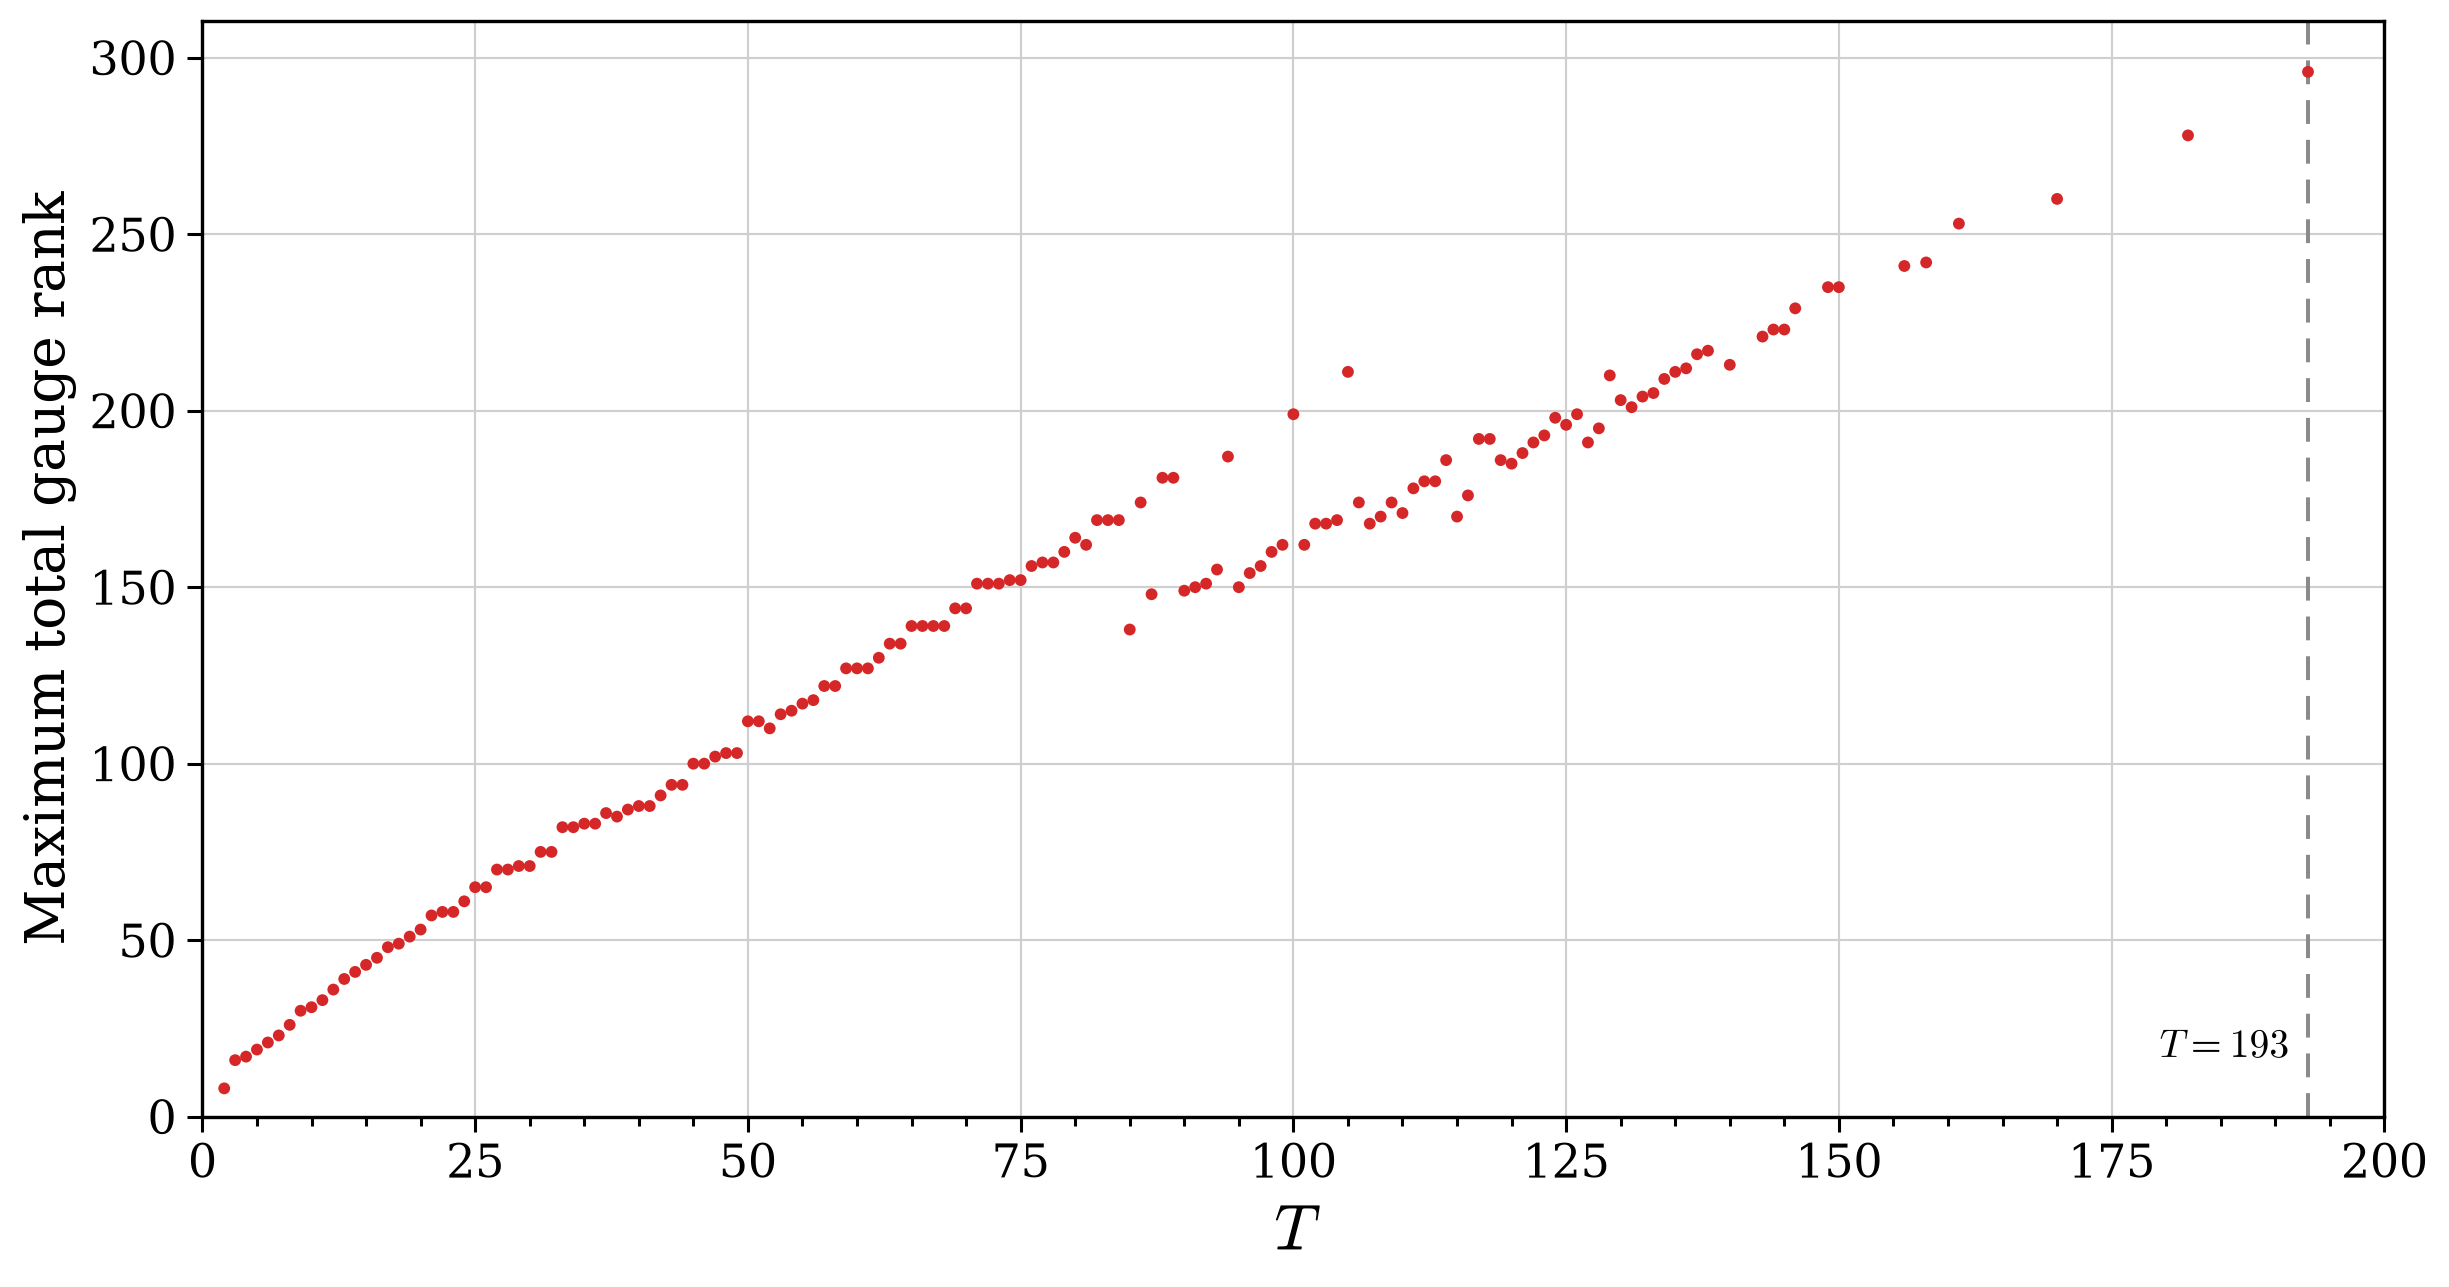
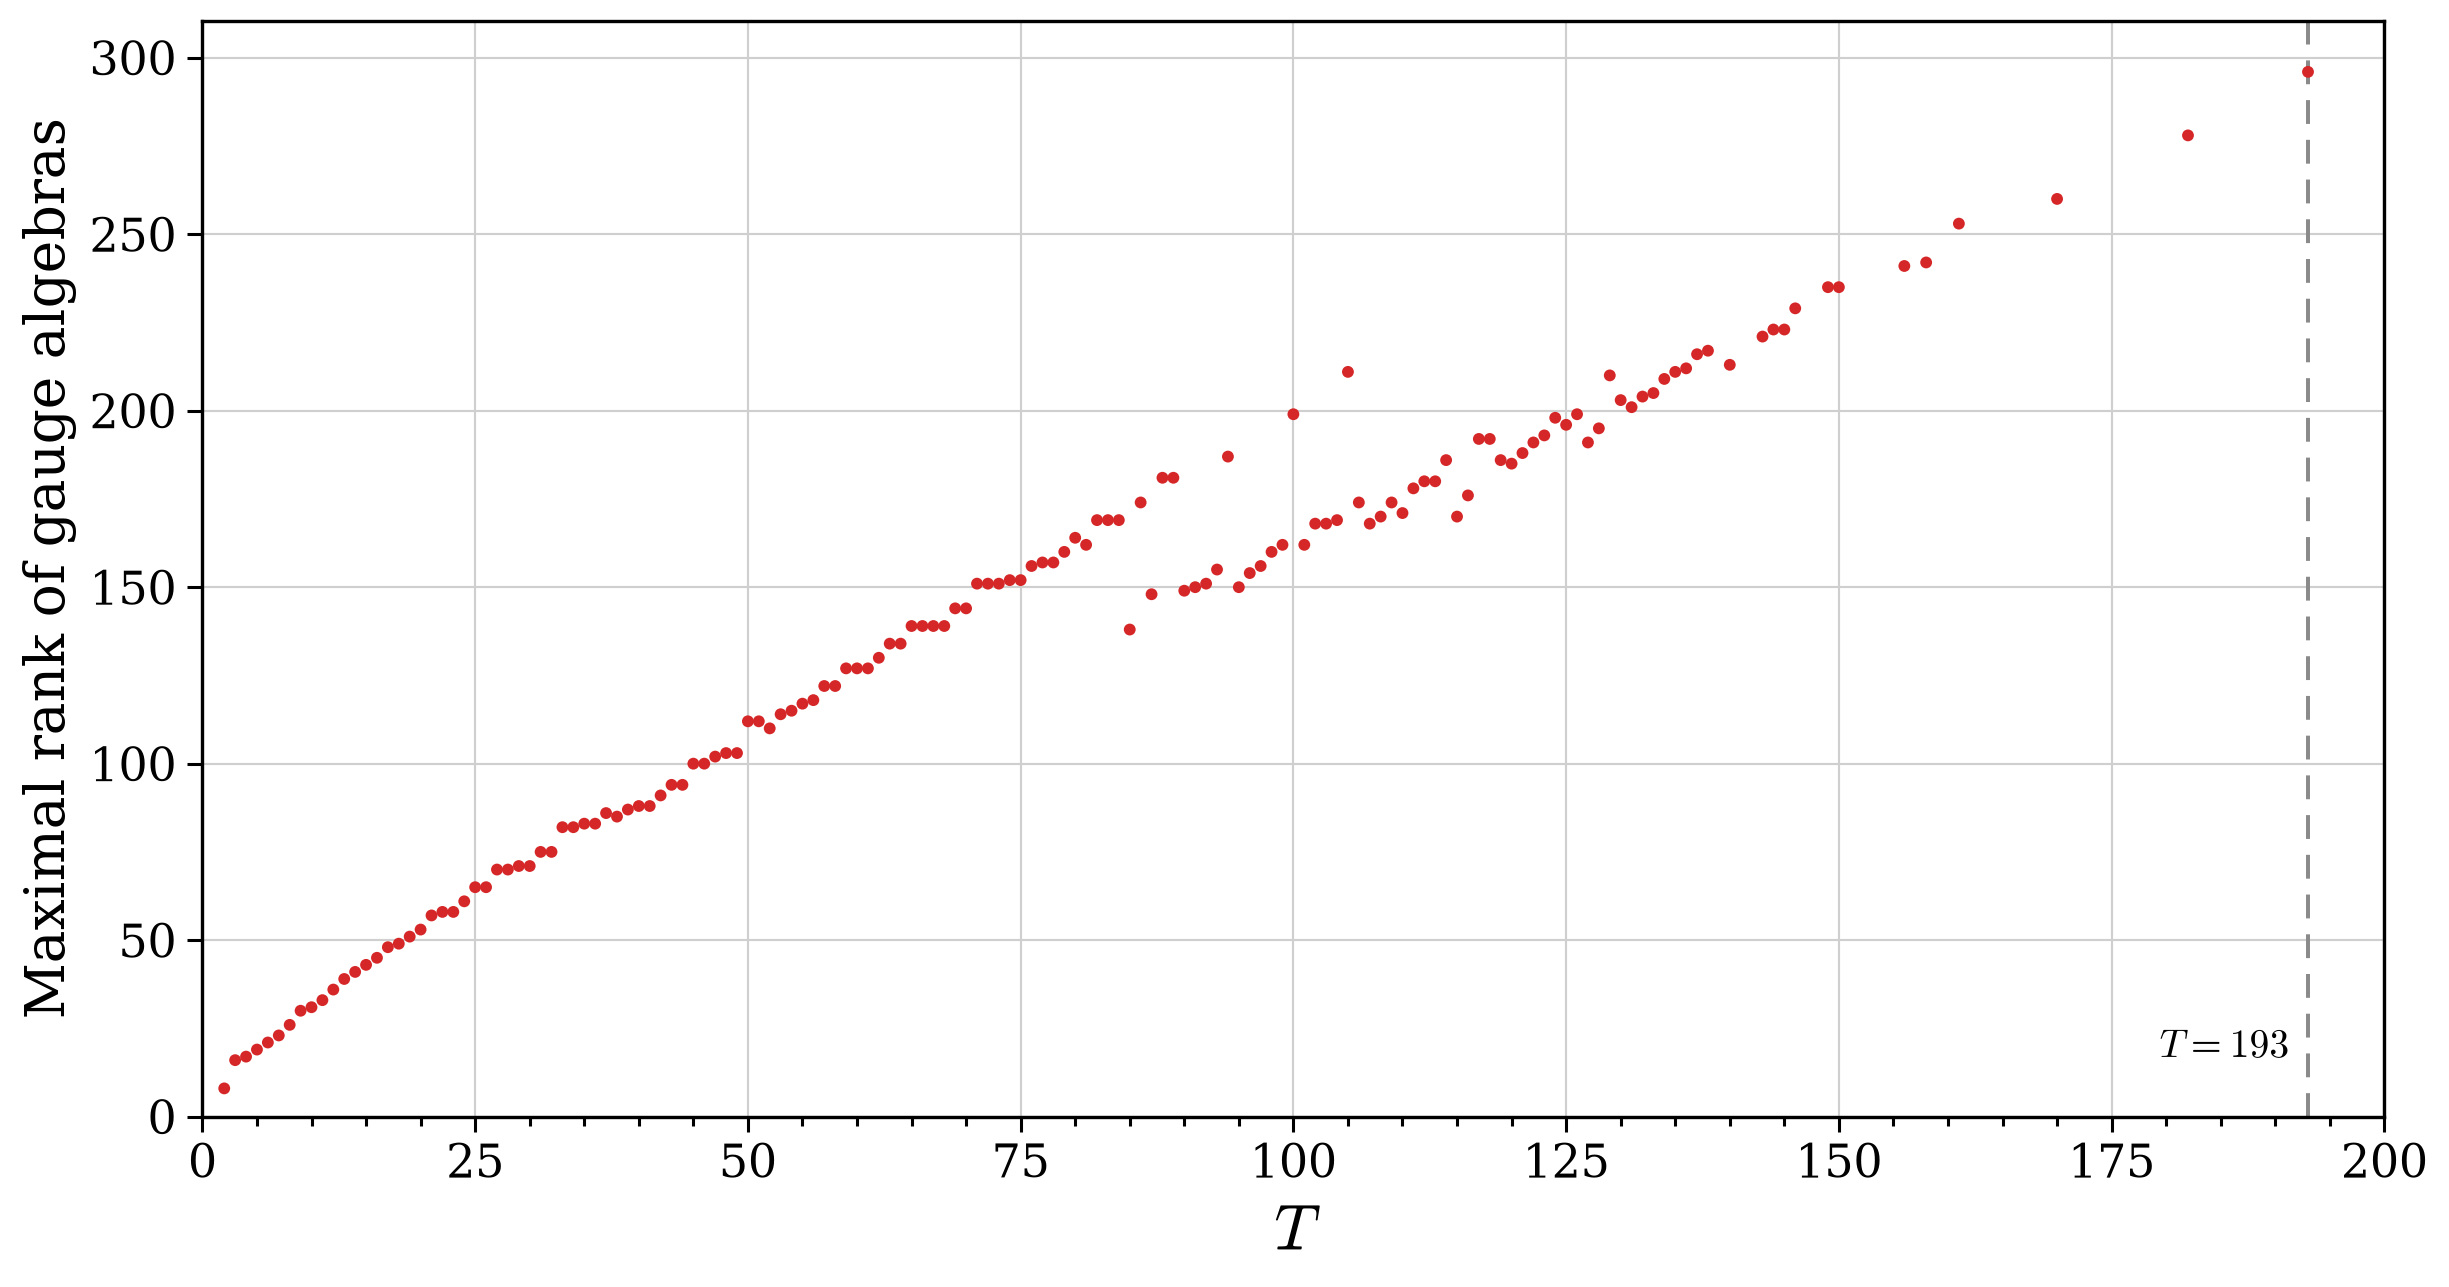
update figures

Changed region(s): [[0.0, 0.0932, 0.031, 0.8081]]

diff --git a/SUGRA/sugra_pipeline_share/sugra_toolkit/plot_gauge_census.py b/SUGRA/sugra_pipeline_share/sugra_toolkit/plot_gauge_census.py
@@ -1,0 +1,71 @@
+#!/usr/bin/env python3
+"""Bar chart: number of SUGRA blocks containing >=1 of each gauge algebra.
+
+Single-curve external gauges (from blocks_by_gauge_nonhc.csv) and NHC clusters
+(from blocks_by_nhc.csv) are shown as SEPARATE bars (NHC considered separately,
+not folded into the su2/g2/so7 bars). Gauge-less (none) is omitted.
+
+Reads the two CSVs from <stats_dir> (default: ../stats_final next to this script)
+and writes blocks_per_gauge.png/.pdf there.
+
+Usage:  python plot_gauge_census.py [stats_dir]
+"""
+import os
+import sys
+import csv
+
+import matplotlib
+matplotlib.use("Agg")
+import matplotlib.pyplot as plt
+from matplotlib.patches import Patch
+
+HERE = os.path.dirname(os.path.abspath(__file__))
+SD = sys.argv[1] if len(sys.argv) > 1 else os.path.join(HERE, "..", "stats_final")
+
+SINGLE_COLOR = "#3b6fb6"     # single-curve external gauge
+NHC_COLOR = "#e07b00"        # NHC cluster (separate)
+
+
+def _rows(name):
+    with open(os.path.join(SD, name)) as f:
+        r = csv.reader(f)
+        next(r)
+        return [x for x in r if x]
+
+
+# single-curve external gauges (drop gauge-less (none))
+single = [(f"{g}({si})", int(n)) for g, si, n, _ in _rows("blocks_by_gauge_nonhc.csv")
+          if g != "(none)"]
+single.sort(key=lambda x: -x[1])
+
+# NHC clusters, shown separately
+nhc = [(r[0], int(r[3])) for r in _rows("blocks_by_nhc.csv") if r[0] != "ANY_nhc"]
+nhc.sort(key=lambda x: -x[1])
+
+labels = [l for l, _ in single] + [l for l, _ in nhc]
+vals = [v for _, v in single] + [v for _, v in nhc]
+colors = [SINGLE_COLOR] * len(single) + [NHC_COLOR] * len(nhc)
+
+plt.rcParams.update({"font.family": "serif", "mathtext.fontset": "cm",
+                     "axes.linewidth": 1.1, "savefig.dpi": 200})
+fig, ax = plt.subplots(figsize=(max(9, len(labels) * 0.52), 6))
+fig.subplots_adjust(left=0.09, right=0.98, top=0.93, bottom=0.24)
+ax.bar(range(len(labels)), vals, color=colors, edgecolor="none", zorder=3)
+ax.set_yscale("log")
+ax.set_xticks(range(len(labels)))
+ax.set_xticklabels(labels, rotation=55, ha="right", fontsize=10)
+ax.set_ylabel("Number of SUGRA blocks (log)", fontsize=14)
+ax.set_title(r"SUGRA blocks containing each gauge algebra ($\geq 1$)", fontsize=14)
+ax.grid(True, axis="y", color="#cfcfcf", linewidth=0.7, zorder=0)
+ax.set_ylim(top=max(vals) * 3)
+ax.legend(handles=[Patch(color=SINGLE_COLOR, label="single-curve external gauge"),
+                   Patch(color=NHC_COLOR, label="NHC cluster (counted separately)")],
+          fontsize=11, frameon=True)
+for i, v in enumerate(vals):
+    ax.text(i, v * 1.25, f"{v:,}", ha="center", va="bottom", fontsize=6.5, rotation=90)
+
+for ext in ("png", "pdf"):
+    fig.savefig(os.path.join(SD, f"blocks_per_gauge.{ext}"), bbox_inches="tight")
+plt.close(fig)
+print(f"saved blocks_per_gauge.png/.pdf -> {SD}")
+print(f"  {len(single)} single-curve gauges + {len(nhc)} NHC clusters")

diff --git a/SUGRA/sugra_pipeline_share/sugra_toolkit/gauge_analysis.py b/SUGRA/sugra_pipeline_share/sugra_toolkit/gauge_analysis.py
@@ -178,7 +178,7 @@ def run(root, out):
     plt.figure(figsize=(10, 5))
     plt.scatter(ts, [maxrank_t[t] for t in ts], color="red", s=16)
     plt.xlabel(r"$T\ (=\sigma_-)$")
-    plt.ylabel("Maximal total gauge rank")
+    plt.ylabel("Maximal rank of gauge algebras")
     plt.title(r"Maximal total gauge-algebra rank per $T$")
     plt.grid(True, alpha=0.3)
     plt.tight_layout(); plt.savefig(os.path.join(out, "maxrank_per_T.png"), dpi=150)

diff --git a/SUGRA/sugra_pipeline_share/sugra_toolkit/make_plots.py b/SUGRA/sugra_pipeline_share/sugra_toolkit/make_plots.py
@@ -158,7 +158,7 @@ scatter(ax, T, MR, color=RED)
 style_axes(ax)
 ax.set_xlim(0, 200); ax.set_ylim(bottom=0)
 ax.set_xlabel(r"$T$", fontsize=21)
-ax.set_ylabel("Maximum total gauge rank", fontsize=18)
+ax.set_ylabel("Maximal rank of gauge algebras", fontsize=18)
 dashed_marker(ax, xmax2, rf"$T = {xmax2}$")
 save(fig, "maxrank_by_T")
 

diff --git a/SUGRA/sugra_pipeline_share/sugra_toolkit/README.md b/SUGRA/sugra_pipeline_share/sugra_toolkit/README.md
@@ -116,6 +116,8 @@ self_int)` (counted once per block; `su3n2/su3n2mix → g2`; gauge-less `2`/`1` 
 `../stats_final/`: `blocks_by_gauge.csv` (incl. NHC-cluster gauges),
 `blocks_by_gauge_nonhc.csv` (single-curve only), and `blocks_by_nhc.csv` (per
 NHC cluster). `by_combo.csv` there carries a `percent_of_total` column.
+`plot_gauge_census.py` turns these into a bar chart (`blocks_per_gauge.png`, y = number
+of SUGRA blocks) with single-curve external gauges and NHC clusters as separate bars.
 
 ## Frozen blocks
 
@@ -242,7 +244,8 @@ Regenerate with `python make_plots.py` (writes `.png` + `.pdf`). Full set in
 [blocks vs #external](../gauge_out/Number_GBs_by_nExternal.png) ·
 [distinct patterns vs `T_H+1`](../gauge_out/Number_distinct_patterns.png) ·
 [distinct patterns vs `T`](../gauge_out/Number_distinct_patterns_by_T.png) —
-plus [external frequency](../stats_final/external_frequency.png) and
+plus [blocks per gauge algebra](../stats_final/blocks_per_gauge.png),
+[external frequency](../stats_final/external_frequency.png) and
 [frozen `T` vs #blocks](../Frozen%20blocks/analysis/frozen_T_vs_blocks.png).
 
 Inline previews:
